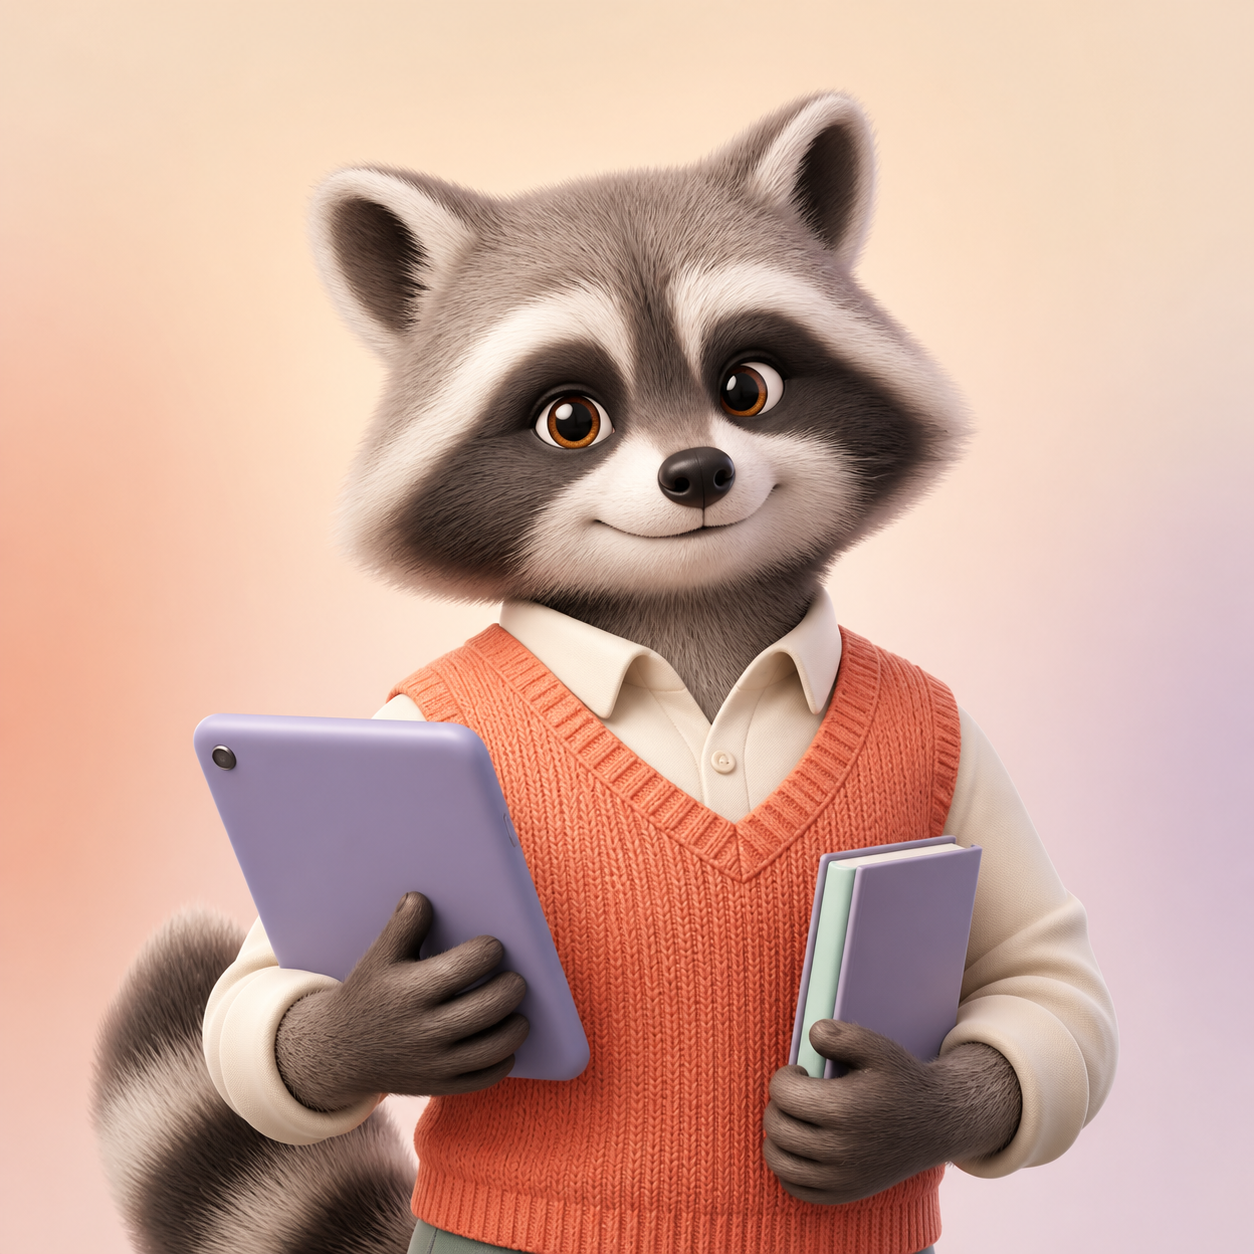
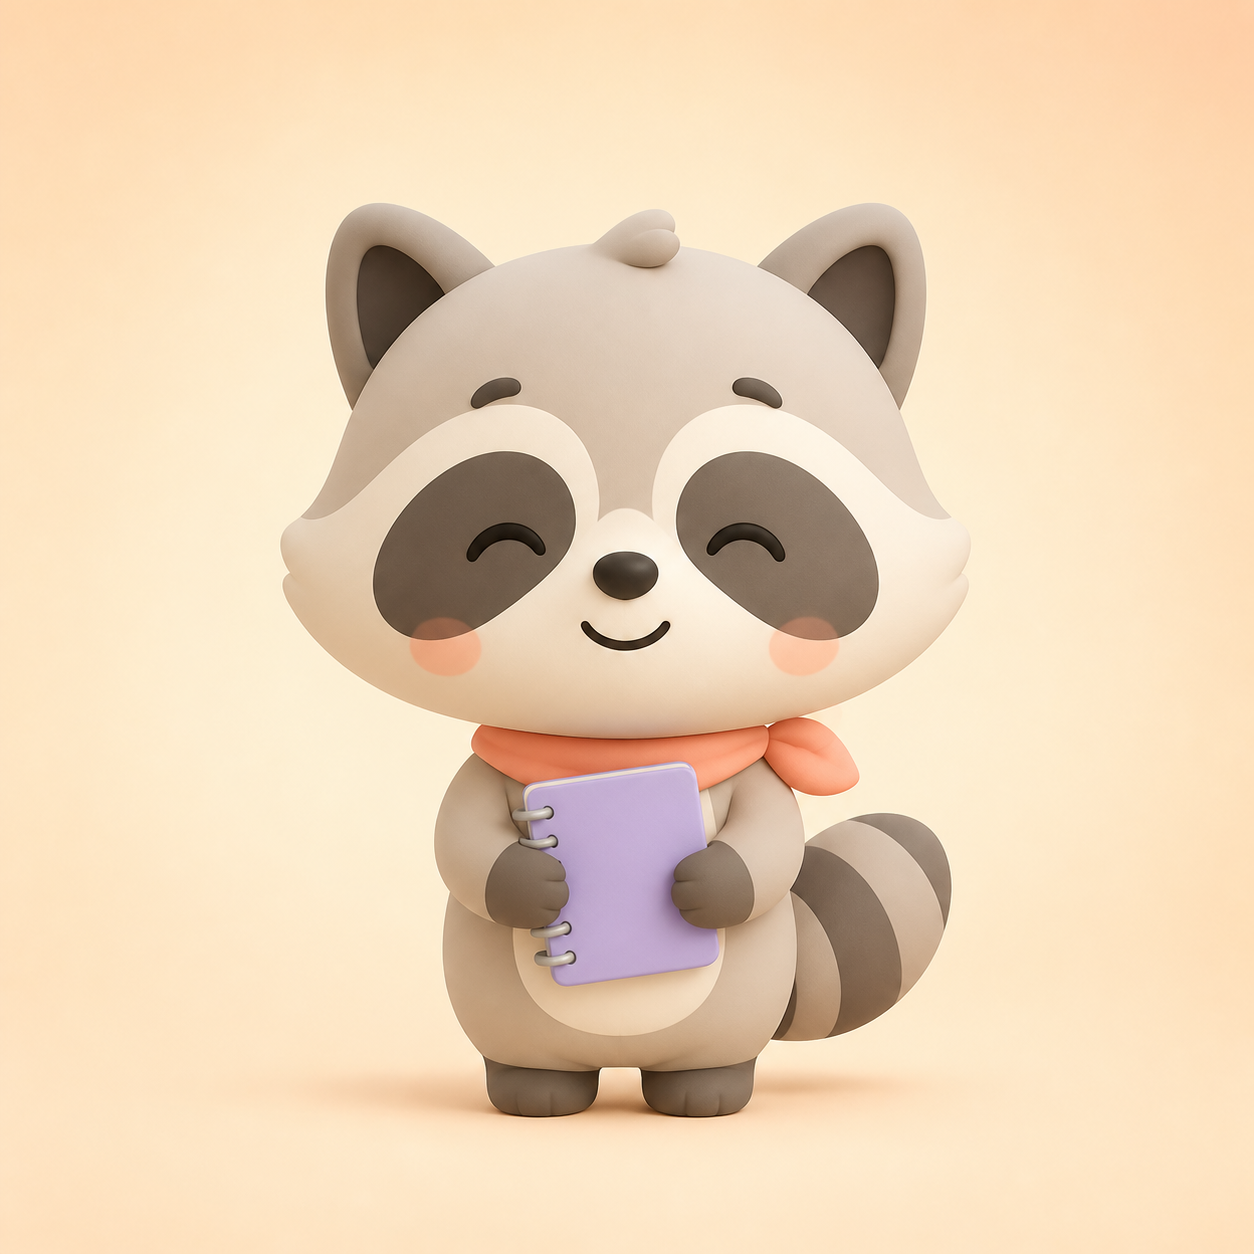
Unify app design and replace mascot

diff --git a/files/index.html b/files/index.html
@@ -909,6 +909,25 @@ body {
 #s-dashboard .cm-secondary-grid{gap:10px}#s-dashboard .cm-secondary{min-height:86px;border:1px solid rgba(226,219,231,.92);border-radius:21px;background:rgba(255,255,255,.84);box-shadow:0 10px 24px rgba(67,55,84,.09),inset 0 1px 0 #fff;font-size:13px;color:#4a4357;backdrop-filter:blur(8px)}#s-dashboard .cm-secondary span{display:grid;place-items:center;width:36px;height:36px;border-radius:13px;background:linear-gradient(145deg,#fff,#f1ecff);box-shadow:0 6px 12px rgba(69,54,92,.1);font-size:21px}
 #s-dashboard>.btn-ghost{margin-left:0;margin-right:0;width:100%;border-radius:18px;font-size:15px}
 @media(max-width:374px){#s-dashboard{padding-left:13px;padding-right:13px}#s-dashboard .dash-header{min-height:294px;padding:21px 17px 18px}#s-dashboard .cm-premium-mascot{right:-10px;top:28px;width:48%}#s-dashboard .dash-name{font-size:22px}#s-dashboard .rank-pill{font-size:13px;padding:7px 11px}#s-dashboard .pts-display{font-size:31px}#s-dashboard .cm-primary{padding:17px}#s-dashboard .cm-primary strong{font-size:18px}#s-dashboard .cm-primary small{font-size:13px}}
+</style>
+<style id="cm-app-design-system-v18">
+/* 접속부터 학습 운영까지 동일한 타이포그래피와 카드 체계를 사용한다. */
+:root{--primary:#f26f4f;--primary2:#ff9a5a;--text:#292638;--muted:#777181;--card:#fff;--card2:#fff8f1;--border:#eadfd8;--green:#47a58e;--gold:#e8a93b}
+html,body,button,input,textarea,select{font-family:-apple-system,BlinkMacSystemFont,"Apple SD Gothic Neo","Pretendard","Noto Sans KR","Segoe UI","Malgun Gothic",sans-serif!important;letter-spacing:-.025em}
+body{color:var(--text);background:linear-gradient(180deg,#f5f1ff 0%,#fff8f0 46%,#f7fbfa 100%)}
+.wrap{background:linear-gradient(180deg,#fffaf5,#fff 48%,#faf8ff);box-shadow:0 0 55px rgba(52,42,71,.12)}
+.screen{background:radial-gradient(circle at 100% 0,rgba(195,184,255,.18),transparent 28%),linear-gradient(180deg,#fffaf5,#fff 58%,#faf8ff)}
+.page-card,.section-card{border:1px solid rgba(229,219,232,.92);background:rgba(255,255,255,.92);border-radius:26px;box-shadow:0 15px 34px rgba(59,47,75,.09),inset 0 1px 0 #fff}
+.page-card:before{display:none}
+.intro-title,.login-title,.dash-name,.menu-label,.roulette-head-title,.drum-result-topic,.growth-title,.growth-cur-rank,.result-rank-txt,.result-pts-big,.review-title{font-family:inherit!important;font-weight:900!important;letter-spacing:-.045em}
+.intro-hero,.login-hero{padding:42px 27px 29px}.intro-badge{border:0;border-radius:999px;padding:9px 15px;background:#f0ecff;color:#6650b7;font-size:13px;box-shadow:inset 0 0 0 1px #ded5ff}.intro-title{font-size:30px;line-height:1.28}.intro-sub,.login-sub{font-size:15px;line-height:1.8}.intro-feat{padding:16px 0;border-color:#eee8f1}.feat-icon{display:grid;place-items:center;width:43px;height:43px;border-radius:14px;background:linear-gradient(145deg,#fff3e9,#f2edff);box-shadow:0 7px 15px rgba(67,50,89,.08);font-size:22px}.feat-text strong{font-size:16px}.feat-text span{font-size:14px;line-height:1.55}
+.login-emoji{display:grid;width:78px;height:78px;margin:0 auto 18px;place-items:center;border-radius:25px;background:linear-gradient(145deg,#fff0e7,#eee9ff);box-shadow:0 14px 29px rgba(79,54,89,.13);font-size:38px}.login-title{font-size:28px}.input-group{margin:0 16px 13px}.input-label{font-size:13px;letter-spacing:0}.input-field{padding:17px 18px;border:1px solid #ded7e5;border-radius:17px;background:#fff;font-size:17px;box-shadow:0 8px 20px rgba(57,45,74,.06)}.input-field:focus{border-color:#8d78df;box-shadow:0 0 0 4px rgba(119,97,217,.12)}
+.btn-main,.btn-submit,.btn-next{min-height:54px;border:0;border-radius:17px;background:linear-gradient(135deg,#f76e50,#f5a04d);font-family:inherit!important;font-size:17px!important;font-weight:900;box-shadow:0 13px 25px rgba(230,104,62,.22),inset 0 1px 0 rgba(255,255,255,.4)}.btn-ghost{min-height:50px;border:1px solid #e3dce8!important;border-radius:17px!important;background:rgba(255,255,255,.82)!important;color:#5e5868!important;font-family:inherit!important;font-size:15px!important;font-weight:850!important;box-shadow:0 8px 19px rgba(56,45,73,.06)}
+.top-bar,.roulette-nav{border-bottom:1px solid rgba(224,216,230,.9);background:rgba(255,251,247,.88);backdrop-filter:blur(14px);-webkit-backdrop-filter:blur(14px)}.roulette-back{border:1px solid #e1dae6;background:#fff;border-radius:13px;font-family:inherit;font-size:14px}.roulette-head-title{font-size:19px}.roulette-cat-btn{min-height:44px;border:1px solid #ddd5e5;border-radius:14px;background:#fff;font-family:inherit;font-size:14px;box-shadow:0 6px 14px rgba(61,48,78,.05)}.roulette-cat-btn.active{background:#735fd0;border-color:#735fd0;box-shadow:0 9px 18px rgba(89,69,177,.2)}
+.quiz-card{border:1px solid #e5dce8!important;border-radius:25px!important;background:rgba(255,255,255,.94)!important;box-shadow:0 18px 38px rgba(55,43,72,.1)!important}.q-text{font-family:inherit!important;font-size:19px!important;line-height:1.65!important;font-weight:850!important}.ans-input{border-radius:17px!important;border:1px solid #ddd5e4!important;font-family:inherit!important}.section-title,.stat-val,.growth-cur-pts,.pts-display{font-family:inherit!important;font-weight:900!important}
+.cm-content-screen{background:linear-gradient(180deg,#fffaf5,#fff 50%,#f9f7ff)!important}.cm-head{background:linear-gradient(135deg,#6651bd,#8a74df);box-shadow:0 8px 22px rgba(75,57,147,.2)}.cm-head button{border-color:rgba(255,255,255,.38);background:rgba(255,255,255,.14);font-family:inherit}.cm-switch{background:#eeeaf1}.cm-chip,.cm-subject,.cm-obj{font-family:inherit}.cm-card,.cm-archive{box-shadow:0 13px 28px rgba(57,45,74,.09)}
+.rank-modal-sheet{background:linear-gradient(180deg,#fffaf5,#fff);box-shadow:0 -20px 50px rgba(40,30,55,.18)}
+@media(max-width:374px){.intro-hero,.login-hero{padding-left:21px;padding-right:21px}.intro-title{font-size:27px}.q-text{font-size:18px!important}}
 </style></head>
 <body>
 <div class="wrap">

diff --git a/index.html b/index.html
@@ -909,6 +909,25 @@ body {
 #s-dashboard .cm-secondary-grid{gap:10px}#s-dashboard .cm-secondary{min-height:86px;border:1px solid rgba(226,219,231,.92);border-radius:21px;background:rgba(255,255,255,.84);box-shadow:0 10px 24px rgba(67,55,84,.09),inset 0 1px 0 #fff;font-size:13px;color:#4a4357;backdrop-filter:blur(8px)}#s-dashboard .cm-secondary span{display:grid;place-items:center;width:36px;height:36px;border-radius:13px;background:linear-gradient(145deg,#fff,#f1ecff);box-shadow:0 6px 12px rgba(69,54,92,.1);font-size:21px}
 #s-dashboard>.btn-ghost{margin-left:0;margin-right:0;width:100%;border-radius:18px;font-size:15px}
 @media(max-width:374px){#s-dashboard{padding-left:13px;padding-right:13px}#s-dashboard .dash-header{min-height:294px;padding:21px 17px 18px}#s-dashboard .cm-premium-mascot{right:-10px;top:28px;width:48%}#s-dashboard .dash-name{font-size:22px}#s-dashboard .rank-pill{font-size:13px;padding:7px 11px}#s-dashboard .pts-display{font-size:31px}#s-dashboard .cm-primary{padding:17px}#s-dashboard .cm-primary strong{font-size:18px}#s-dashboard .cm-primary small{font-size:13px}}
+</style>
+<style id="cm-app-design-system-v18">
+/* 접속부터 학습 운영까지 동일한 타이포그래피와 카드 체계를 사용한다. */
+:root{--primary:#f26f4f;--primary2:#ff9a5a;--text:#292638;--muted:#777181;--card:#fff;--card2:#fff8f1;--border:#eadfd8;--green:#47a58e;--gold:#e8a93b}
+html,body,button,input,textarea,select{font-family:-apple-system,BlinkMacSystemFont,"Apple SD Gothic Neo","Pretendard","Noto Sans KR","Segoe UI","Malgun Gothic",sans-serif!important;letter-spacing:-.025em}
+body{color:var(--text);background:linear-gradient(180deg,#f5f1ff 0%,#fff8f0 46%,#f7fbfa 100%)}
+.wrap{background:linear-gradient(180deg,#fffaf5,#fff 48%,#faf8ff);box-shadow:0 0 55px rgba(52,42,71,.12)}
+.screen{background:radial-gradient(circle at 100% 0,rgba(195,184,255,.18),transparent 28%),linear-gradient(180deg,#fffaf5,#fff 58%,#faf8ff)}
+.page-card,.section-card{border:1px solid rgba(229,219,232,.92);background:rgba(255,255,255,.92);border-radius:26px;box-shadow:0 15px 34px rgba(59,47,75,.09),inset 0 1px 0 #fff}
+.page-card:before{display:none}
+.intro-title,.login-title,.dash-name,.menu-label,.roulette-head-title,.drum-result-topic,.growth-title,.growth-cur-rank,.result-rank-txt,.result-pts-big,.review-title{font-family:inherit!important;font-weight:900!important;letter-spacing:-.045em}
+.intro-hero,.login-hero{padding:42px 27px 29px}.intro-badge{border:0;border-radius:999px;padding:9px 15px;background:#f0ecff;color:#6650b7;font-size:13px;box-shadow:inset 0 0 0 1px #ded5ff}.intro-title{font-size:30px;line-height:1.28}.intro-sub,.login-sub{font-size:15px;line-height:1.8}.intro-feat{padding:16px 0;border-color:#eee8f1}.feat-icon{display:grid;place-items:center;width:43px;height:43px;border-radius:14px;background:linear-gradient(145deg,#fff3e9,#f2edff);box-shadow:0 7px 15px rgba(67,50,89,.08);font-size:22px}.feat-text strong{font-size:16px}.feat-text span{font-size:14px;line-height:1.55}
+.login-emoji{display:grid;width:78px;height:78px;margin:0 auto 18px;place-items:center;border-radius:25px;background:linear-gradient(145deg,#fff0e7,#eee9ff);box-shadow:0 14px 29px rgba(79,54,89,.13);font-size:38px}.login-title{font-size:28px}.input-group{margin:0 16px 13px}.input-label{font-size:13px;letter-spacing:0}.input-field{padding:17px 18px;border:1px solid #ded7e5;border-radius:17px;background:#fff;font-size:17px;box-shadow:0 8px 20px rgba(57,45,74,.06)}.input-field:focus{border-color:#8d78df;box-shadow:0 0 0 4px rgba(119,97,217,.12)}
+.btn-main,.btn-submit,.btn-next{min-height:54px;border:0;border-radius:17px;background:linear-gradient(135deg,#f76e50,#f5a04d);font-family:inherit!important;font-size:17px!important;font-weight:900;box-shadow:0 13px 25px rgba(230,104,62,.22),inset 0 1px 0 rgba(255,255,255,.4)}.btn-ghost{min-height:50px;border:1px solid #e3dce8!important;border-radius:17px!important;background:rgba(255,255,255,.82)!important;color:#5e5868!important;font-family:inherit!important;font-size:15px!important;font-weight:850!important;box-shadow:0 8px 19px rgba(56,45,73,.06)}
+.top-bar,.roulette-nav{border-bottom:1px solid rgba(224,216,230,.9);background:rgba(255,251,247,.88);backdrop-filter:blur(14px);-webkit-backdrop-filter:blur(14px)}.roulette-back{border:1px solid #e1dae6;background:#fff;border-radius:13px;font-family:inherit;font-size:14px}.roulette-head-title{font-size:19px}.roulette-cat-btn{min-height:44px;border:1px solid #ddd5e5;border-radius:14px;background:#fff;font-family:inherit;font-size:14px;box-shadow:0 6px 14px rgba(61,48,78,.05)}.roulette-cat-btn.active{background:#735fd0;border-color:#735fd0;box-shadow:0 9px 18px rgba(89,69,177,.2)}
+.quiz-card{border:1px solid #e5dce8!important;border-radius:25px!important;background:rgba(255,255,255,.94)!important;box-shadow:0 18px 38px rgba(55,43,72,.1)!important}.q-text{font-family:inherit!important;font-size:19px!important;line-height:1.65!important;font-weight:850!important}.ans-input{border-radius:17px!important;border:1px solid #ddd5e4!important;font-family:inherit!important}.section-title,.stat-val,.growth-cur-pts,.pts-display{font-family:inherit!important;font-weight:900!important}
+.cm-content-screen{background:linear-gradient(180deg,#fffaf5,#fff 50%,#f9f7ff)!important}.cm-head{background:linear-gradient(135deg,#6651bd,#8a74df);box-shadow:0 8px 22px rgba(75,57,147,.2)}.cm-head button{border-color:rgba(255,255,255,.38);background:rgba(255,255,255,.14);font-family:inherit}.cm-switch{background:#eeeaf1}.cm-chip,.cm-subject,.cm-obj{font-family:inherit}.cm-card,.cm-archive{box-shadow:0 13px 28px rgba(57,45,74,.09)}
+.rank-modal-sheet{background:linear-gradient(180deg,#fffaf5,#fff);box-shadow:0 -20px 50px rgba(40,30,55,.18)}
+@media(max-width:374px){.intro-hero,.login-hero{padding-left:21px;padding-right:21px}.intro-title{font-size:27px}.q-text{font-size:18px!important}}
 </style></head>
 <body>
 <div class="wrap">

diff --git a/files/sw.js b/files/sw.js
@@ -1,4 +1,4 @@
-const VERSION = '2026-08-07-v17';
+const VERSION = '2026-08-07-v18';
 const CACHE = 'quiz-' + VERSION;
 
 self.addEventListener('install', e => {

diff --git a/sw.js b/sw.js
@@ -1,4 +1,4 @@
-const VERSION = '2026-08-07-v17';
+const VERSION = '2026-08-07-v18';
 const CACHE = 'quiz-' + VERSION;
 
 self.addEventListener('install', e => {

diff --git a/AGENTS.md b/AGENTS.md
@@ -145,6 +145,14 @@ key, value (JSON), updated_at
 
 ## 📅 작업 이력
 
+### 2026-08-07 (전체 앱 디자인 시스템 통일 및 캐릭터 교체)
+**접속·로그인부터 퀴즈와 자료 화면까지 전체 UI를 현대적인 교육 앱 스타일로 통일**
+- Jua 중심 혼합 폰트를 모바일 시스템 한글 폰트 기반의 굵고 읽기 쉬운 타이포그래피로 교체
+- 접속·로그인·홈·퀴즈·결과·룰렛·성장·상담카드·교육자료의 배경, 카드, 버튼, 입력창, 상단바 통일
+- 사실적인 기존 3D 캐릭터를 단순하고 귀여운 2.5D 너구리 학습 코치로 교체
+- 기존 기능·데이터·화면 전환 함수는 변경하지 않음
+- 서비스 워커 캐시 버전을 `2026-08-07-v18`로 갱신
+
 ### 2026-08-07 (홈 UI 프리미엄 리디자인)
 **기존 기능을 유지한 채 모바일 홈 화면을 현대적인 교육 앱 스타일로 개선**
 - 점수·직급·성장률 영역을 한 장의 입체형 성장 대시보드로 재구성
